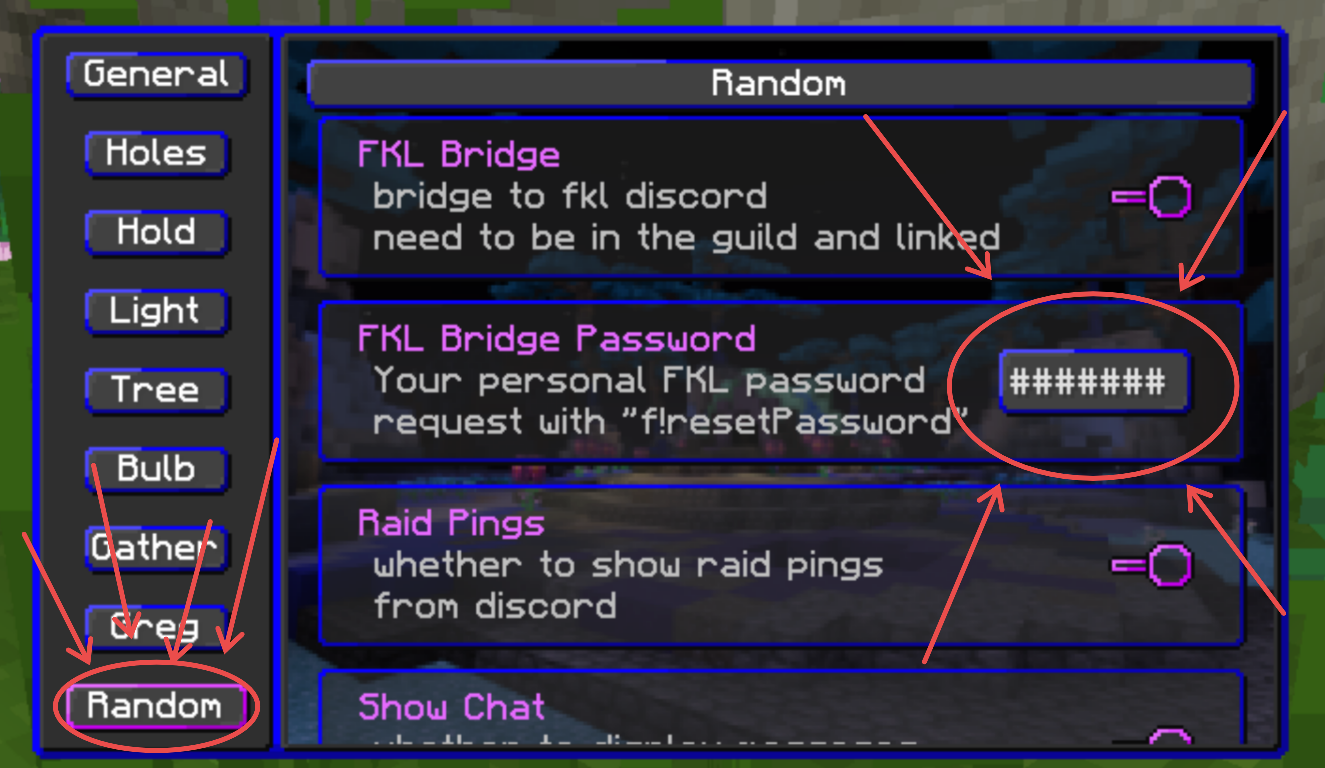
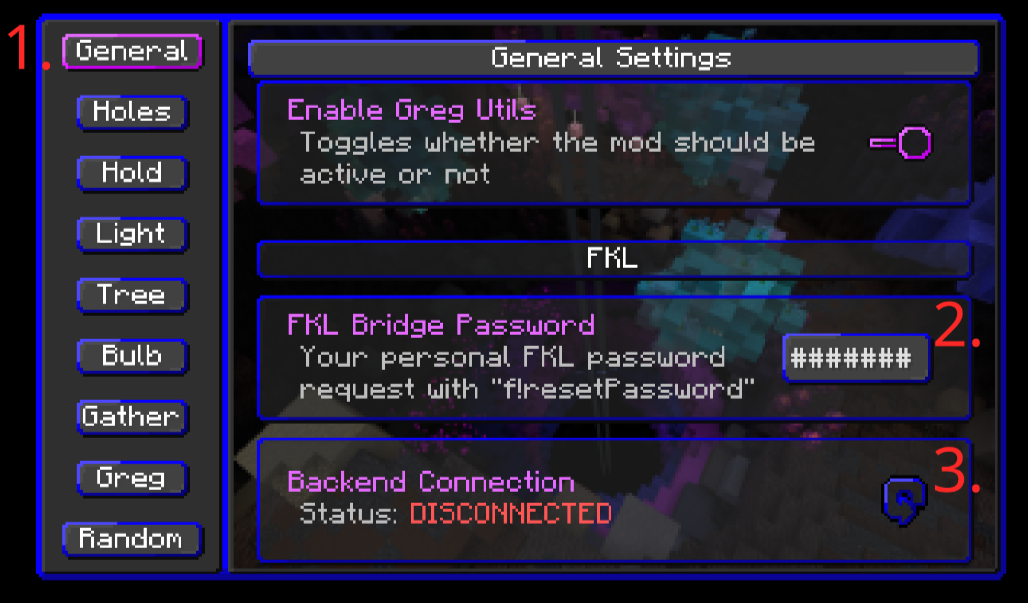
Project: bump version to 1.2.0+1.21.11, update readme and changelog

diff --git a/src/main/kotlin/lei/greg/GregUtils.kt b/src/main/kotlin/lei/greg/GregUtils.kt
@@ -26,14 +26,14 @@ object GregUtils : ModInitializer {
 	// uses dummy uuid in debug mode for testing in gradle dev env
 	val PLAYER_UUID: String by lazy {
 		// NOTE: remember to always uncomment this line before pushing
-		//MinecraftClient.getInstance().session.uuidOrNull.toString()
+		MinecraftClient.getInstance().session.uuidOrNull.toString()
 		// and comment this one !
-		"4a451026-c279-40fa-80de-6fcd02169bc5"
+		//"4a451026-c279-40fa-80de-6fcd02169bc5"
 	}
 	val PLAYER_NAME: String by lazy {
 		// same thing here
-		//MinecraftClient.getInstance().session.username
-		"catboylei"
+		MinecraftClient.getInstance().session.username
+		//"catboylei"
 	}
 
 	override fun onInitialize() {

diff --git a/src/main/kotlin/lei/greg/backend/AwawaWebsocket.kt b/src/main/kotlin/lei/greg/backend/AwawaWebsocket.kt
@@ -80,7 +80,6 @@ object Backend {
         private set
     private var requestedIcons = false
 
-    // TODO: pull icons from awawa
     var customIcons = mutableMapOf<String, String>()
 
     @Volatile

diff --git a/README.md b/README.md
@@ -18,7 +18,7 @@ also meow mraow mrrp purr mrreaw purrrr :3
 
 ## Config
 
-Open the config gui through modmenu or the command that i forgor to add
+Open the config gui through modmenu or ```/greg```
 
 <img src="./assets/config.png" alt="config gui">
 
@@ -26,15 +26,18 @@ Open the config gui through modmenu or the command that i forgor to add
 
 obviously many more planned eventually
 
-- client-side FKL discord bridge
 - Tree Path highlight
 - Watched beam progress
 - very cool gui
 
-## How to enable the bridge 
+<sub><i>FKL or allies only (need link): </i></sub>
+- client-side FKL discord bridge
+- view and sign up to FKL Annies
+
+## How to link to Awawa/FKL backend
 
 > [!IMPORTANT]
-> This will NEVER ask for any email address or external passwords/codes. We only use the internal awawa password as to manage who has access to the bridge.
+> This will NEVER ask for any email address or external passwords/codes. We only use the internal awawa password as to manage who has access to the fkl features.
 
 <details>
 <summary>Tutorial</summary>
@@ -58,7 +61,7 @@ obviously many more planned eventually
 3. Input your password into the mod
 
     Now just enter that password into the mod, and you are done! \
-    (go into the Random category and paste the password into the password field)
+    (General <i>(1)</i> > password field <i>(2)</i> then press the reconnect button <i>(3)</i>)
 
     <img src="assets/modgui.png" width="50%">
 

diff --git a/CHANGELOG.md b/CHANGELOG.md
@@ -1,8 +1,13 @@
-## [UNRELEASED]
+## [PLANNED]
+
+- Custom icons to chat/tab
+- lwk idk
+
+## [v1.2.0] - 2026/11/06
 
 ### Added
-- Backend status display and reconnect button
-- Annie Parties screen (`/annie`)
+- Backend status display and reconnect button (Backend [@citr_n](https://github.com/Citrnn))
+- Annie Parties screen (`/annie`) (Backend [@citr_n](https://github.com/Citrnn))
 - Command to open main config (`/greg`)
 
 ### Changed
